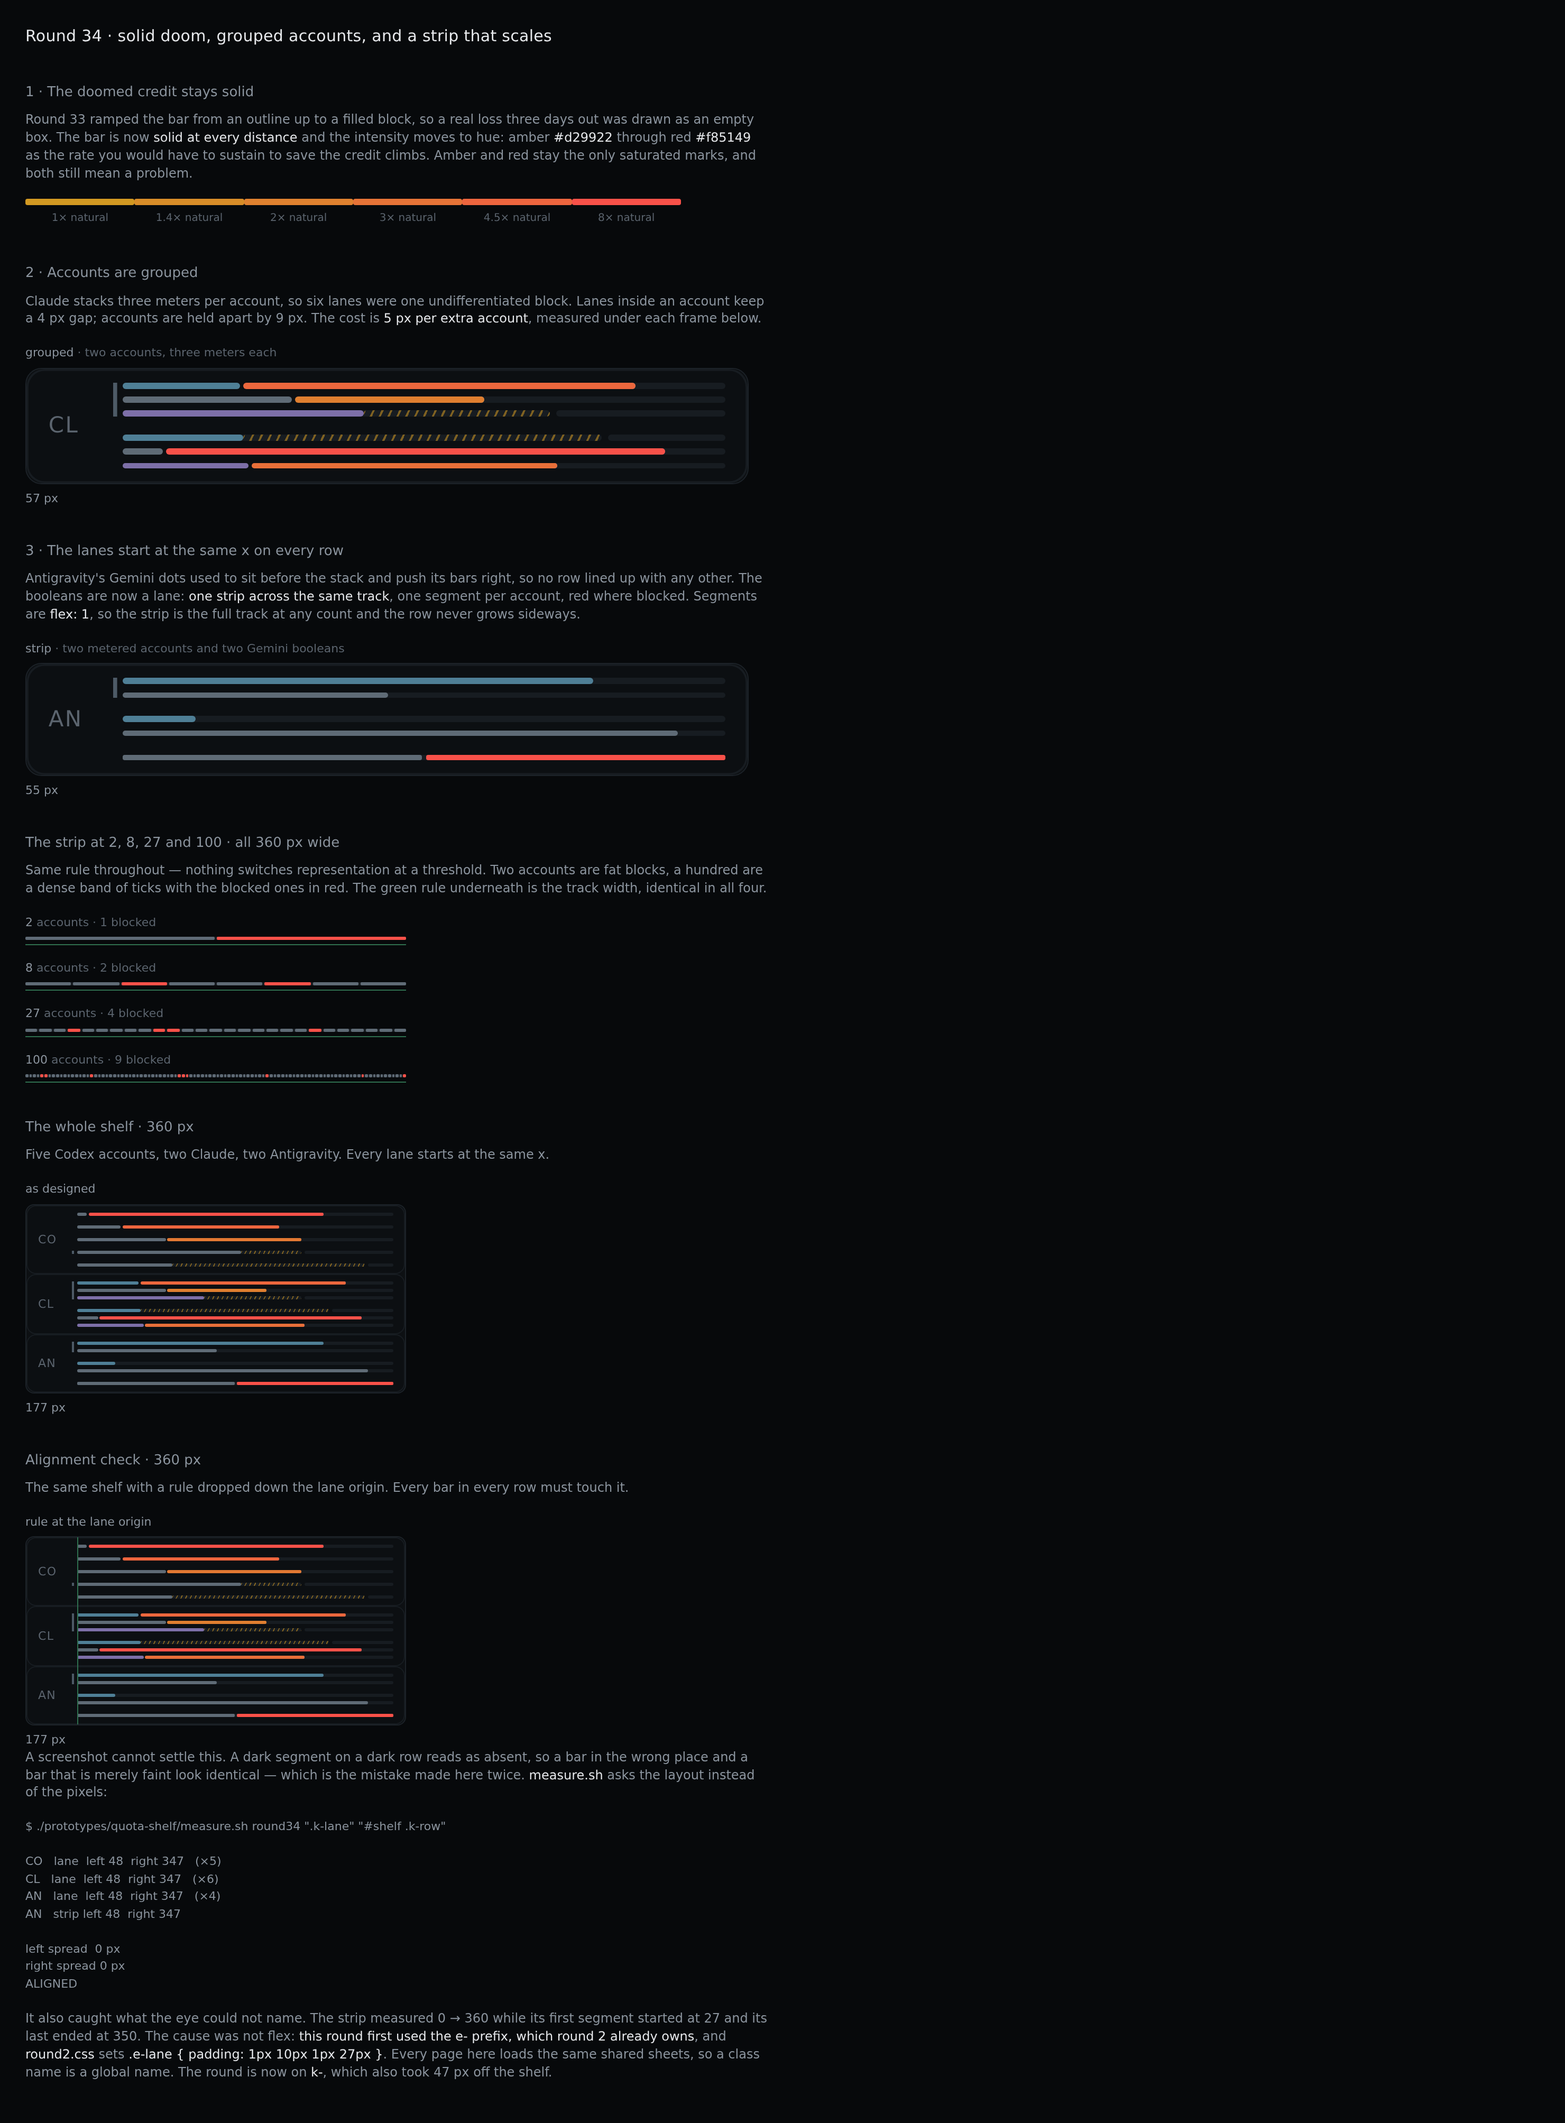
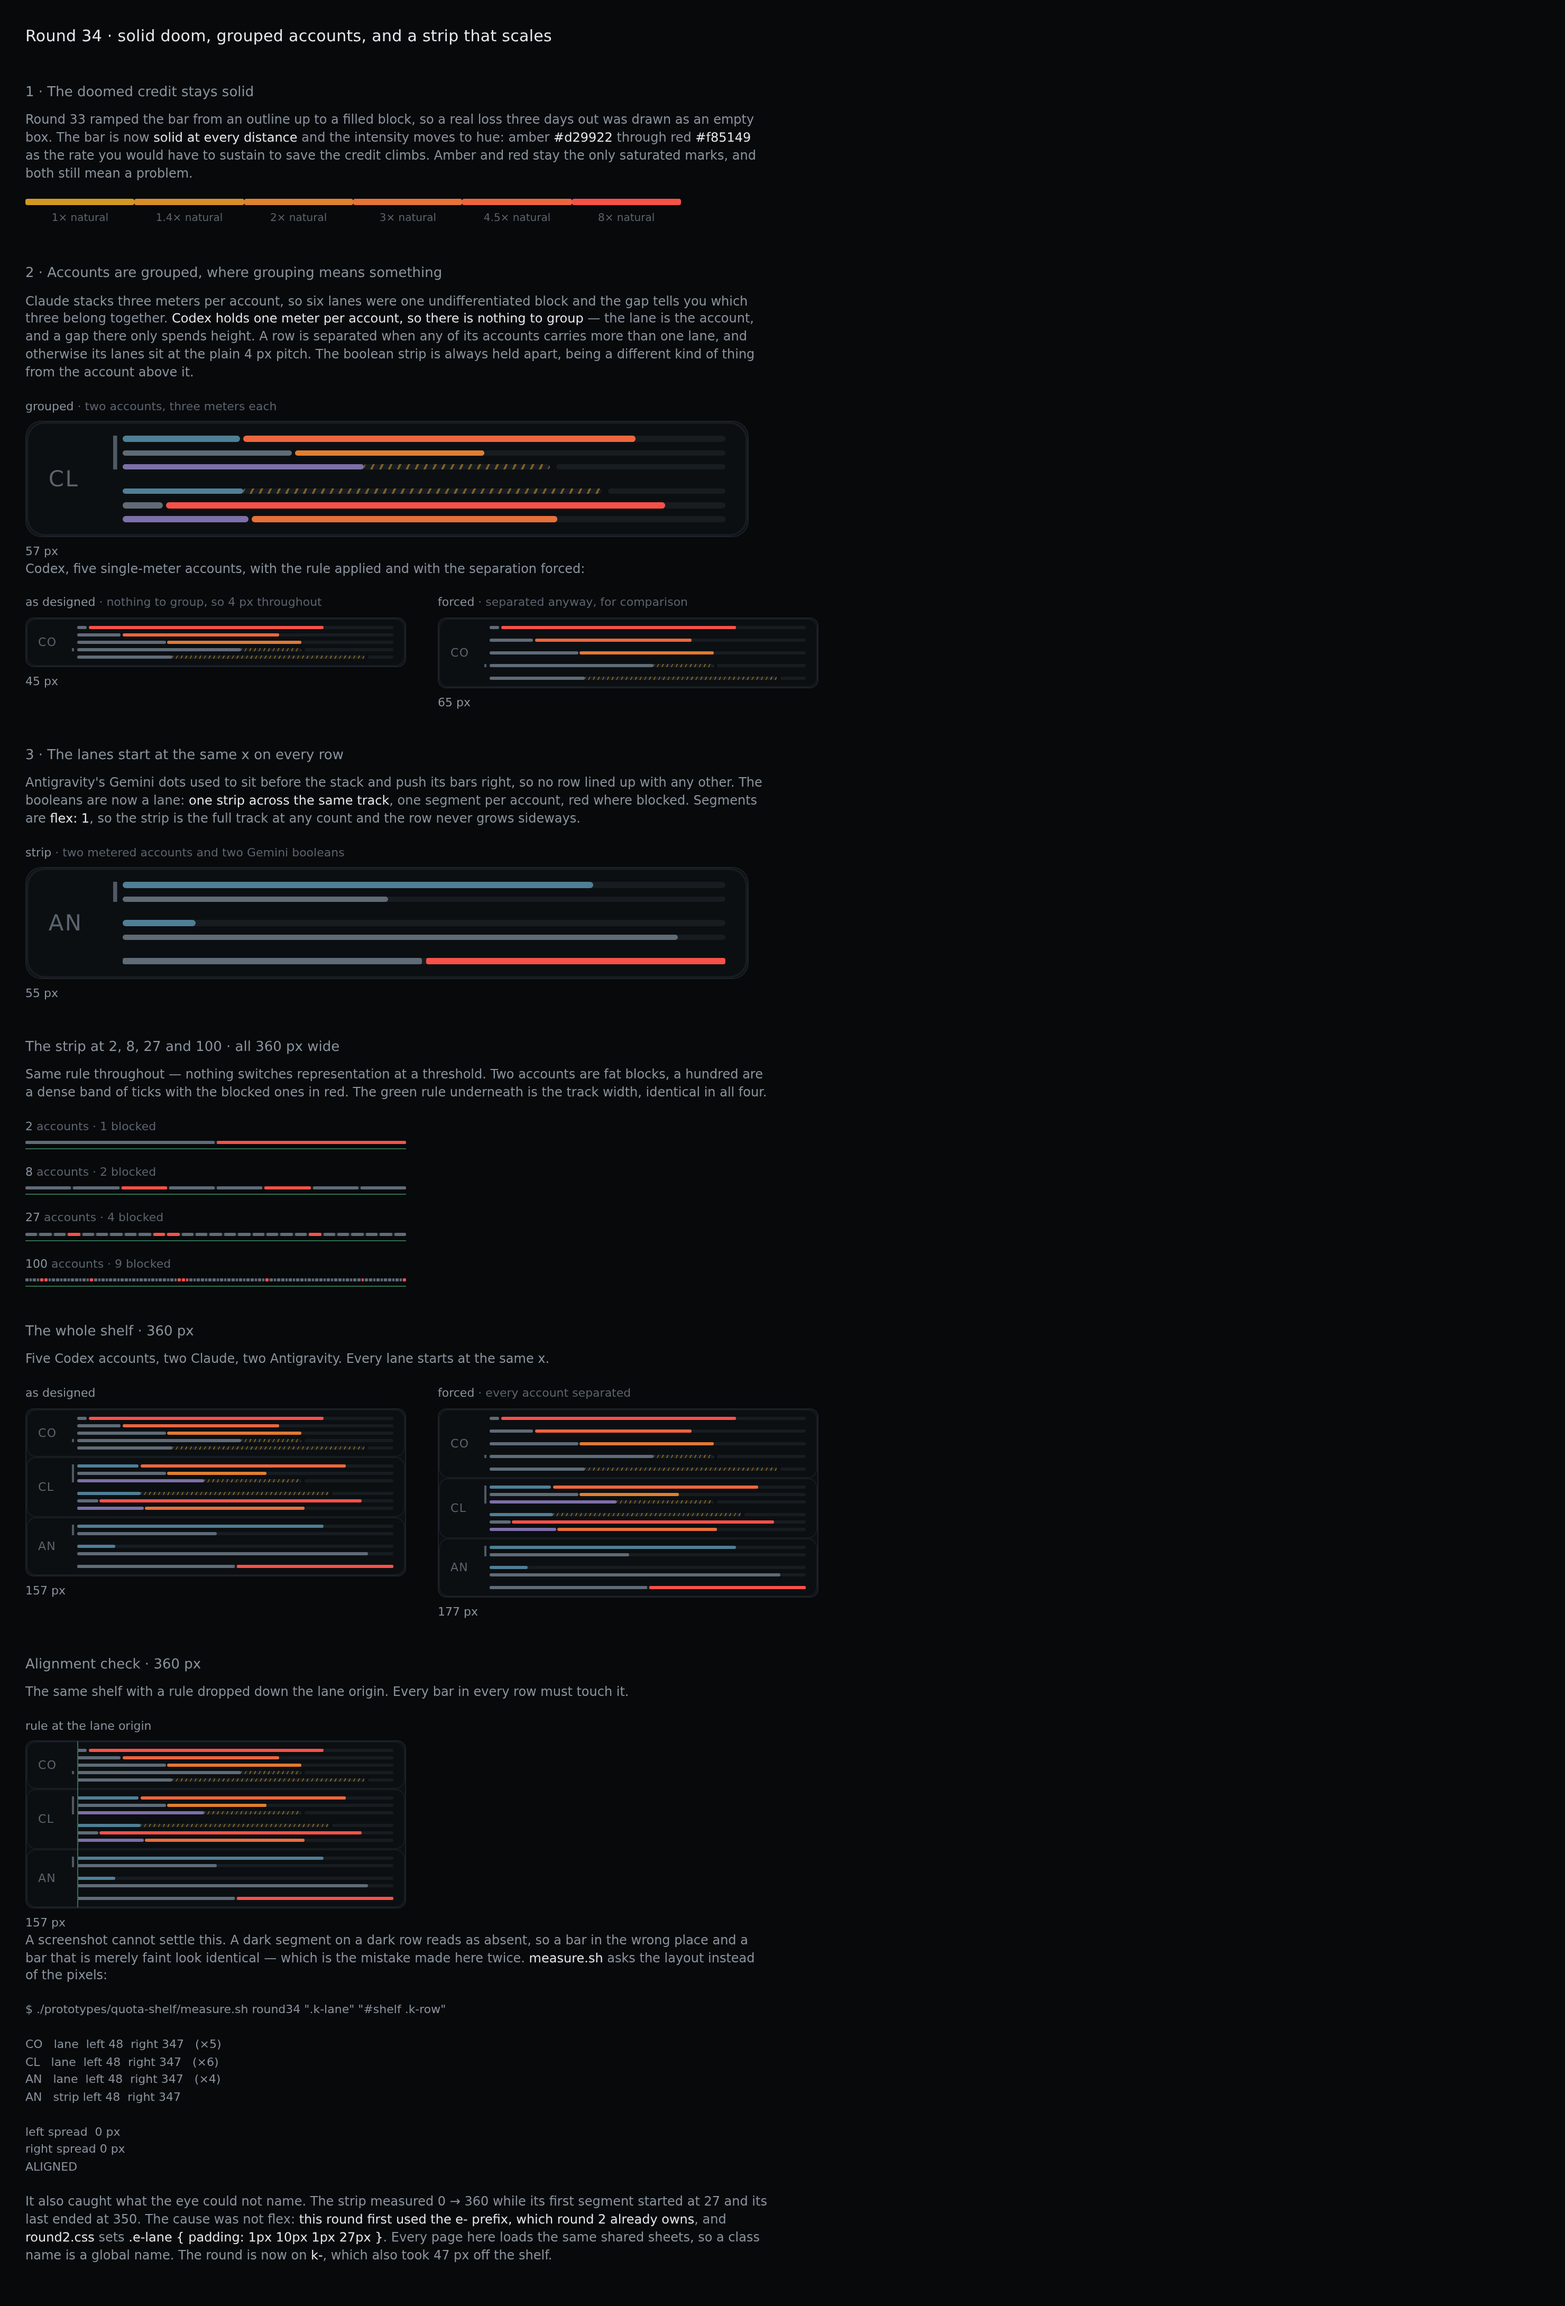
docs(prototypes): separate accounts only where separating them says something
Codex holds one meter per account, so there is nothing to group: the lane
is the account, and a gap between lanes there only spends height. Claude
stacks three meters per account, so the gap is what tells you which three
belong together.

So a row is separated when any of its accounts carries more than one lane,
and otherwise its lanes sit at the plain four pixel pitch. The boolean
strip is always held apart, being a different kind of thing from the
account above it.

The first attempt deleted the separation instead of reducing it, and the
Codex row collapsed to 29 px with five lanes touching. Four pixels is the
lane pitch and belongs on the stack, the same whether the next lane is this
account's or the next one's; grouping adds five to it rather than creating
it.

Codex goes from 65 px to 45 px, and the whole shelf from 177 px to 157 px
for fifteen lanes, a boolean strip and nine accounts. Alignment re-measured
after the change: left 48, right 347, spread zero.

diff --git a/prototypes/quota-shelf/round34.js b/prototypes/quota-shelf/round34.js
@@ -7,10 +7,16 @@
  *    to save the credit climbs. That keeps the existing vocabulary, where
  *    amber and red are the only saturated marks and both mean a problem.
  *
- * 2. Accounts are grouped. Claude stacks three meters per account, so six
- *    lanes in a row were one undifferentiated block. Lanes inside an account
- *    keep their 4 px gap and accounts are separated by 9 px, which costs
- *    5 px per extra account and is measured on the page.
+ * 2. Accounts are grouped, but only where grouping means something. Claude
+ *    stacks three meters per account, so six lanes in a row were one
+ *    undifferentiated block and the gap tells you which three belong
+ *    together. Codex holds one meter per account, so there is nothing to
+ *    group: the lane is the account, and a gap there only spends height.
+ *
+ *    So a row is separated when any of its accounts carries more than one
+ *    lane, and otherwise its lanes sit at the plain 4 px pitch. The boolean
+ *    strip is always held apart, because it is a different kind of thing
+ *    from the account above it.
  *
  * 3. The lanes start at the same x on every row. Antigravity's Gemini dots
  *    used to sit before the stack and pushed its bars right, so no row lined
@@ -103,11 +109,14 @@
 
   /* -------------------------------------------------------------- one row */
 
-  function row(group) {
+  /** Grouping only earns its height when an account owns more than one lane. */
+  const needsGrouping = (group) => group.accounts.some((account) => account.lanes.length > 1);
+
+  function row(group, { forceGrouping = false } = {}) {
     const node = el("div", "k-row");
     node.append(el("span", "k-tag", group.tag));
 
-    const stack = el("span", "k-stack");
+    const stack = el("span", `k-stack${forceGrouping || needsGrouping(group) ? " grouped" : ""}`);
     for (const account of group.accounts) {
       const block = el("span", `k-acct${account.pinned ? " pinned" : ""}`);
       for (const spec of [...account.lanes].sort((a, b) => a.leftMs - b.leftMs)) {
@@ -120,7 +129,7 @@
       stack.append(block);
     }
     if (group.booleans?.length) {
-      const block = el("span", "k-acct");
+      const block = el("span", "k-acct apart");
       const line = el("span", "k-line");
       line.append(booleanLane(group.booleans));
       block.append(line);
@@ -181,5 +190,5 @@
     near: unit(Math.log(Math.max(excess, 1.0001)) / Math.log(CAP)),
   }));
 
-  window.QUOTA_ROUND34 = { row, booleanLane, CLAUDE, ANTIGRAVITY, CODEX, STRIPS, RAMP, doomColour };
+  window.QUOTA_ROUND34 = { row, booleanLane, needsGrouping, CLAUDE, ANTIGRAVITY, CODEX, STRIPS, RAMP, doomColour };
 })();

diff --git a/prototypes/quota-shelf/round34.html b/prototypes/quota-shelf/round34.html
@@ -23,11 +23,15 @@ drawn as an empty box. The bar is now <b>solid at every distance</b> and the int
 climbs. Amber and red stay the only saturated marks, and both still mean a problem.</p>
 <div class="ramp" id="ramp"></div>
 
-<h2>2 · Accounts are grouped</h2>
-<p class="note">Claude stacks three meters per account, so six lanes were one undifferentiated block. Lanes
-inside an account keep a 4 px gap; accounts are held apart by 9 px. The cost is <b>5 px per extra account</b>,
-measured under each frame below.</p>
+<h2>2 · Accounts are grouped, where grouping means something</h2>
+<p class="note">Claude stacks three meters per account, so six lanes were one undifferentiated block and the
+gap tells you which three belong together. <b>Codex holds one meter per account, so there is nothing to
+group</b> — the lane is the account, and a gap there only spends height. A row is separated when any of its
+accounts carries more than one lane, and otherwise its lanes sit at the plain 4 px pitch. The boolean strip is
+always held apart, being a different kind of thing from the account above it.</p>
 <div class="pair big" id="claude"></div>
+<p class="note">Codex, five single-meter accounts, with the rule applied and with the separation forced:</p>
+<div class="pair" id="codex"></div>
 
 <h2>3 · The lanes start at the same x on every row</h2>
 <p class="note">Antigravity's Gemini dots used to sit before the stack and push its bars right, so no row lined
@@ -133,8 +137,14 @@ name is a global name. The round is now on <code>k-</code>, which also took 47 p
     strips.append(box);
   }
 
+  put("codex", "<b>as designed</b> · nothing to group, so 4 px throughout", (root) => root.append(row(CODEX)));
+  put("codex", "<b>forced</b> · separated anyway, for comparison", (root) => root.append(row(CODEX, { forceGrouping: true })));
+
   const GROUPS = [CODEX, CLAUDE, ANTIGRAVITY];
   put("shelf", "<b>as designed</b>", (root) => { for (const group of GROUPS) root.append(row(group)); });
+  put("shelf", "<b>forced</b> · every account separated", (root) => {
+    for (const group of GROUPS) root.append(row(group, { forceGrouping: true }));
+  });
 
   put("align", "<b>rule at the lane origin</b>", (root) => {
     root.style.position = "relative";

diff --git a/prototypes/quota-shelf/round34.css b/prototypes/quota-shelf/round34.css
@@ -14,10 +14,17 @@
 }
 .k-tag { font: 11px/1 var(--num); letter-spacing: .06em; color: var(--dim); }
 
-.k-stack { display: flex; flex-direction: column; min-width: 0; }
-/* Lanes inside an account sit close; accounts are held apart. */
+/* 4 px is the lane pitch, and it is the same whether the next lane belongs to
+   this account or the next one. Grouping adds to it; it does not create it. */
+.k-stack { display: flex; flex-direction: column; gap: 4px; min-width: 0; }
+/* Lanes inside an account sit close. Accounts are held apart only in a row
+   where an account owns more than one lane, because that is the only case
+   where the gap says something: with one meter per account the lane is the
+   account, and the separation just spends height. The boolean strip is
+   always held apart, being a different kind of thing. */
 .k-acct { display: flex; flex-direction: column; gap: 4px; min-width: 0; padding-left: 5px; }
-.k-acct + .k-acct { margin-top: 9px; }
+.k-stack.grouped > .k-acct + .k-acct,
+.k-acct.apart { margin-top: 5px; }
 .k-acct.pinned { box-shadow: inset 2px 0 0 #4d5a66; }
 .k-line { display: flex; align-items: center; min-width: 0; }
 .k-lane { position: relative; height: 3px; flex: 1 1 0; min-width: 0; }
